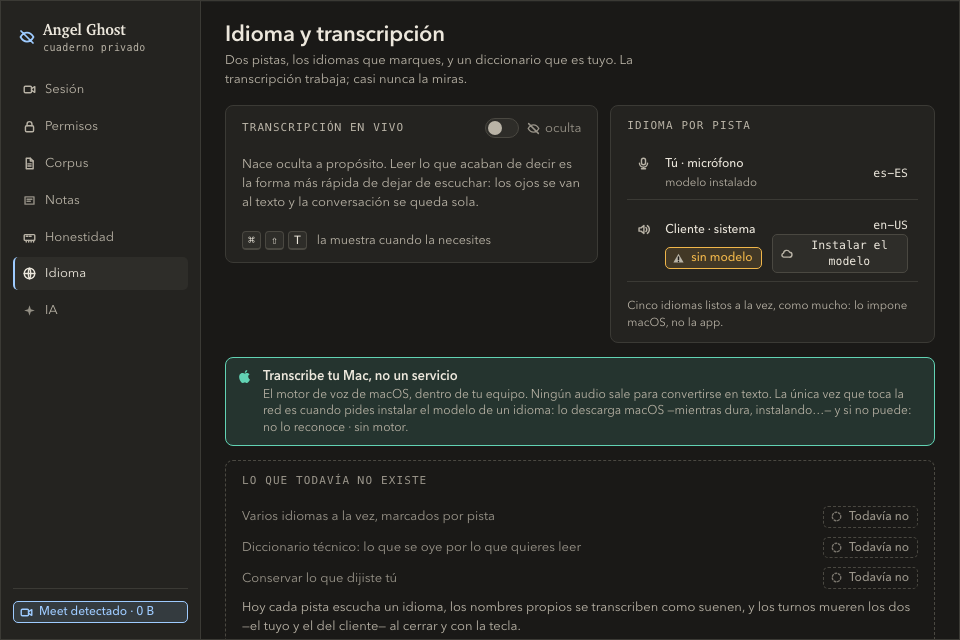
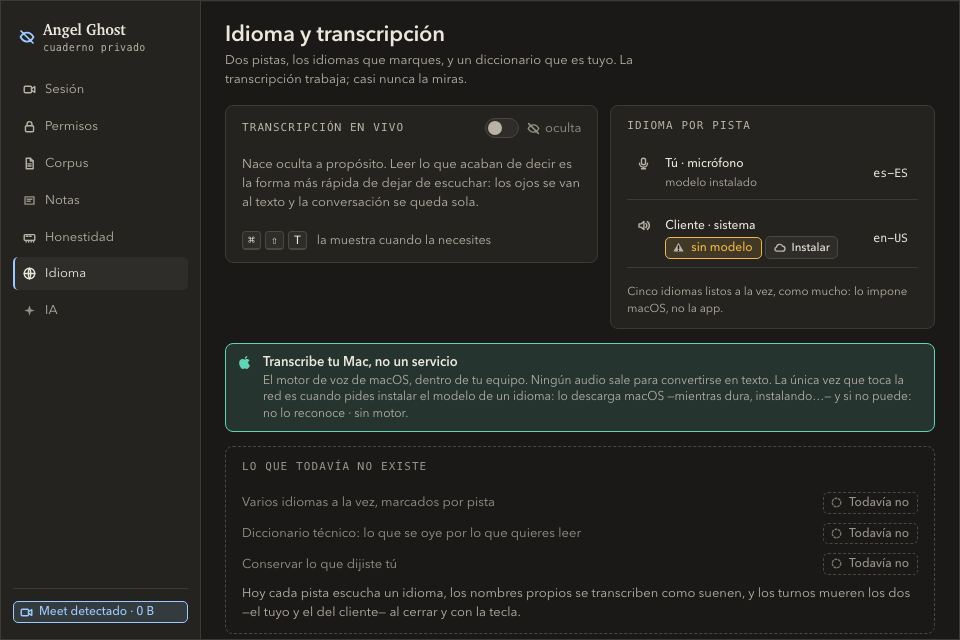
fix(s1): «Instalar», al lado del motivo que arregla
La captura leída como imagen enseñó lo que el número no decía: con el
botón en la columna de la derecha, la etiqueta «Instalar el modelo»
partía en dos líneas y el código del idioma quedaba flotando encima,
leyéndose como parte de la fila anterior.

Con la etiqueta de una palabra y al lado del chip «sin modelo», cabe en
una línea y el desborde de la pantalla baja de 29 px a 15 px — la última
línea del párrafo del pie. Cuatro pasadas del gate para una fila y un
botón, y la que decidió fue la que se miró.

Changed region(s): [[0.2188, 0.3438, 1.0, 0.75], [0.25, 0.7812, 0.9688, 1.0]]

diff --git a/docs/GUIA-DE-PRUEBA.html b/docs/GUIA-DE-PRUEBA.html
@@ -383,7 +383,7 @@
     <ul class="pasos">
       <li data-origen="nuevo"><input type="checkbox" id="f1"><label for="f1">Mira las dos pistas con su idioma y el estado real de su modelo. <strong>Si un modelo no está instalado, lo dice</strong> en vez de fallar en silencio cuando alguien hable.
         <span class="origen origen-nuevo">Nuevo · S1</span></label></li>
-      <li data-origen="mejorado" data-minimo><input type="checkbox" id="f2"><label for="f2">Con un idioma sin modelo, la fila lo dice en ámbar y ofrece <strong>«Instalar el modelo»</strong>. Púlsalo: el botón pasa a <strong>«instalando…»</strong> y no se puede volver a pulsar; cuando macOS termina, la fila dice <strong>«modelo instalado»</strong>. Es la única vez que la app toca la red, y en la dirección contraria: entra el modelo, no sale nada. El contador sigue en <strong>0 B</strong>.
+      <li data-origen="mejorado" data-minimo><input type="checkbox" id="f2"><label for="f2">Con un idioma sin modelo, la fila lo dice en ámbar y ofrece <strong>«Instalar»</strong>. Púlsalo: el botón pasa a <strong>«instalando…»</strong> y no se puede volver a pulsar; cuando macOS termina, la fila dice <strong>«modelo instalado»</strong>. Es la única vez que la app toca la red, y en la dirección contraria: entra el modelo, no sale nada. El contador sigue en <strong>0 B</strong>.
         <p class="chica suave" style="margin:6px 0 0"><strong>Este botón no existía.</strong> La auditoría encontró que el comando que instala el modelo no tenía un solo llamador: en un Mac sin el modelo del cliente —lo normal, si tu sistema está en español— la transcripción del cliente era inalcanzable desde dentro de la app, y la pantalla solo decía «sin modelo».</p>
         <span class="origen origen-mejorado">Mejorado en S1 · auditoría</span>
         <span class="minimo">⭐ mínimo</span></label></li>
@@ -392,7 +392,7 @@
       <li data-origen="nuevo" data-minimo><input type="checkbox" id="f4"><label for="f4">En una reunión en inglés, con el idioma del cliente en <code>en-US</code>: los turnos del cliente <strong>se transcriben en inglés</strong> y los tuyos en español, cada pista por su lado.
         <span class="origen origen-nuevo">Nuevo · S1</span>
         <span class="minimo">⭐ mínimo</span></label></li>
-      <li data-origen="nuevo" data-minimo><input type="checkbox" id="f5"><label for="f5"><strong>Y una que es una pregunta para ti, no una comprobación.</strong> Con un idioma sin modelo, esta pantalla mide 667 px y la ventana 640: <strong>se desplaza 29 px</strong>. Baja con la rueda o con el teclado y dime si te molesta. La alternativa era recortar la frase de «Transcribe tu Mac» que dice cuál es la única vez que la app toca la red, y recortar honestidad para que un gate quede en verde es justo lo que esta auditoría vino a arreglar. En cuanto el modelo está instalado, la pantalla vuelve a caber.
+      <li data-origen="nuevo" data-minimo><input type="checkbox" id="f5"><label for="f5"><strong>Y una que es una pregunta para ti, no una comprobación.</strong> Con un idioma sin modelo, esta pantalla mide 653 px y la ventana 640: <strong>se desplaza 15 px</strong> — la última línea del párrafo de abajo. Baja con la rueda o con el teclado y dime si te molesta. La alternativa era recortar la frase de «Transcribe tu Mac» que dice cuál es la única vez que la app toca la red, y recortar honestidad para que un gate quede en verde es justo lo que esta auditoría vino a arreglar. En cuanto el modelo está instalado, la pantalla vuelve a caber.
         <span class="origen origen-nuevo">Nuevo · S1 · auditoría</span>
         <span class="minimo">⭐ mínimo</span></label></li>
     </ul>
@@ -409,7 +409,7 @@
       <ul>
         <li><strong>S1 · v2 · 2026-09-22 (tras la auditoría):</strong> 39 pruebas. <strong>Seis
           nuevas</strong> —la banda sin reunión ni corpus, la frase del cliente que enseña al buscar,
-          el corte mientras hablas (novena parada del ⭐⭐), el log sin palabras y el desborde de la
+          el corte mientras hablas (novena parada del ⭐⭐), el log sin palabras y el desborde de 15 px de la
           pantalla de Idioma— y <strong>tres reescritas</strong>: la ficha en menos de cuatro
           segundos (que no funcionaba), el PDF roto (que en la app compilada cerraba el programa) y
           la instalación del modelo (que no tenía botón). Gate mínimo ⭐ de 31; corto ⭐⭐ de 9 paradas.

diff --git a/src/pantallas/Idioma.tsx b/src/pantallas/Idioma.tsx
@@ -84,21 +84,23 @@ export function Idioma({ transcribe }: { transcribe: QueSabeTranscribir }) {
       <div className="buffer" key={codigo}>
         <Ic id={icono} s />
         <span className="que">{quien}</span>
+        {/* **El botón va al lado del motivo que arregla**, y su etiqueta es una palabra.
+            Costó tres pasadas del gate de fidelidad y una captura leída como imagen: en fila
+            propia empujaba la pantalla 58 px fuera de la ventana de 640; en la columna de la
+            derecha, 29 px **y partía en dos líneas** —«Instalar el» / «modelo»— con el código del
+            idioma flotando encima. Eso último no lo dice ningún número: se vio mirando el PNG. */}
         <span className="donde">
           {listo || (
-            <span className="estado warn">
-              <Ic id="i-alert" s />
-              <span>{motivo(t, d)}</span>
-            </span>
+            <>
+              <span className="estado warn">
+                <Ic id="i-alert" s />
+                <span>{motivo(t, d)}</span>
+              </span>{" "}
+              {botonDeInstalar(codigo)}
+            </>
           )}
         </span>
-        {/* **El botón va en la columna de la derecha**, que en `.buffer` ocupa las dos filas: ahí
-            cabe sin hacer la fila más alta. En una fila propia empujaba la pantalla 58 px fuera de
-            la ventana de 640, y al lado del motivo, 20 px. Lo midió el gate de fidelidad, no el
-            ojo — y esta pantalla ya estaba justo al límite antes de tocarla. */}
-        <span className="cuanto">
-          {codigo} {botonDeInstalar(codigo)}
-        </span>
+        <span className="cuanto">{codigo}</span>
       </div>
     );
   };

diff --git a/docs/diseno/idioma.html b/docs/diseno/idioma.html
@@ -224,7 +224,7 @@
                inglés. Sin él, la pantalla decía «sin modelo» —en español, también en la interfaz
                inglesa— y no ofrecía nada que hacer: la transcripción del cliente quedaba
                inalcanzable desde dentro de la app. -->
-          <div class="buffer"><svg class="ic s"><use href="#i-sistema"/></svg><span class="que"><span lang="es">Cliente · sistema</span><span lang="en">Client · system</span></span><span class="donde"><span class="estado warn"><svg class="ic s"><use href="#i-alert"/></svg><span><span lang="es">sin modelo</span><span lang="en">no model</span></span></span></span><span class="cuanto">en-US <button class="btn mini" type="button"><svg class="ic s"><use href="#i-nube"/></svg><span lang="es">Instalar el modelo</span><span lang="en">Install the model</span></button></span></div>
+          <div class="buffer"><svg class="ic s"><use href="#i-sistema"/></svg><span class="que"><span lang="es">Cliente · sistema</span><span lang="en">Client · system</span></span><span class="donde"><span class="estado warn"><svg class="ic s"><use href="#i-alert"/></svg><span><span lang="es">sin modelo</span><span lang="en">no model</span></span></span> <button class="btn mini" type="button"><svg class="ic s"><use href="#i-nube"/></svg><span lang="es">Instalar</span><span lang="en">Install</span></button></span><span class="cuanto">en-US</span></div>
           <p style="font-size:11.5px;color:var(--ink-2);margin-top:6px"><span lang="es">Cinco idiomas listos a la vez, como mucho: lo impone macOS, no la app.</span><span lang="en">Five languages ready at a time, at most: macOS imposes it, not the app.</span></p>
         </div>
       </div>

diff --git a/src/i18n/es.ts b/src/i18n/es.ts
@@ -311,7 +311,7 @@ export const es = {
     noLoReconoce: "no lo reconoce",
     sinMotorDeVoz: "sin motor",
     /** El botón que faltaba (A7): sin él, un Mac sin el modelo no tenía cómo conseguirlo. */
-    instalarModelo: "Instalar el modelo",
+    instalarModelo: "Instalar",
     instalando: "instalando…",
     cincoIdiomas: "Cinco idiomas listos a la vez, como mucho: lo impone macOS, no la app.",
     transcribeTuMac: "Transcribe tu Mac, no un servicio",

diff --git a/src/i18n/en.ts b/src/i18n/en.ts
@@ -240,7 +240,7 @@ export const en: Diccionario = {
     sinModelo: "no model",
     noLoReconoce: "not recognised",
     sinMotorDeVoz: "no engine",
-    instalarModelo: "Install the model",
+    instalarModelo: "Install",
     instalando: "installing…",
     cincoIdiomas: "Five languages ready at a time, at most: macOS imposes it, not the app.",
     transcribeTuMac: "Your Mac transcribes, not a service",

diff --git a/sprints/SPRINT_001-implementation-log.md b/sprints/SPRINT_001-implementation-log.md
@@ -1891,11 +1891,8 @@ funcionar. Mientras macOS descarga dice «instalando…» y no se puede volver a
 **En rojo:** cinco pruebas nuevas en `idioma-sin-modelo.test.tsx`; sin el botón, *«Unable to find an
 accessible element with the role "button" and name /Instalar el modelo/»*.
 
-**Y el precio de dibujarlo, medido:** la pantalla de Idioma estaba **a 0 px del borde** de la ventana
-de 640, así que cada cosa nueva la desbordaba. Tres pasadas del gate de fidelidad para colocarla —
-botón en fila propia **+58 px**, al lado del motivo **+37 px**, en la columna que ya ocupa las dos
-filas del `buffer` **+29 px**— y una cuarta comprimiendo la frase de la franja. Lo midió el gate, no
-el ojo.
+**Y el precio de dibujarlo está medido abajo**, en «el desborde que queda»: cuatro pasadas del gate
+de fidelidad, y la última decidida leyendo la captura y no el número.
 
 ### Las 9 frases que habían caducado
 
@@ -1918,21 +1915,28 @@ pantalla decía, no lo que la app hacía. Un test escrito contra la interfaz no 
 
 #### El desborde que queda, medido y declarado
 
-La pantalla de Idioma **estaba a 0 px del borde** de la ventana de 640 antes de la auditoría. Con la
-fila del modelo que falta y su botón, el estado «sin modelo» mide **667 px: 29 px de desplazamiento**.
-Los otros tres bloques no se tocaron.
+La pantalla de Idioma **estaba a 0 px del borde** de la ventana de 640 antes de la auditoría, así que
+cada cosa nueva la desbordaba. Cuatro pasadas del gate para colocar una fila y un botón:
 
-| Bloque | Alto | Nota |
-|---|---|---|
-| título | 68 px | |
-| `grid-2` | 238 px | lo manda la tarjeta de la derecha; la fila del cliente pasa de 53 a 73 px por el botón |
-| `franja ok` | 89 px | tres líneas, las mismas que tenía |
-| `tarjeta pendiente` | 188 px | |
+| Dónde fue el botón | Desborde |
+|---|---|
+| en una fila propia debajo de las dos pistas | **+58 px** |
+| al lado del motivo, con la etiqueta «Instalar el modelo» | **+37 px** |
+| en la columna de la derecha, que ya ocupa las dos filas del `buffer` | **+29 px** |
+| **al lado del motivo, etiqueta «Instalar»** | **+15 px** ← así queda |
 
-**Por qué se deja así y no se recorta copy.** Las dos salidas eran quitar 29 px de texto —y el único
-candidato era la frase de la franja que dice *«la única vez que la app toca la red…»*, que es una de
-las afirmaciones que esta app existe para sostener— o aceptar el desplazamiento. Recortar honestidad
-para poner un gate en verde es exactamente el fallo que esta auditoría entera está pagando.
+**Y la última la decidió una captura, no un número.** Con el botón en la columna de la derecha el
+desborde bajaba a 29 px y ahí lo habría dejado: el gate solo dice cuántos píxeles sobran. Al **leer
+el PNG como imagen** —la disciplina de la pasada de capturas— se vio lo que ningún número dice: la
+etiqueta partía en dos líneas, «Instalar el» / «modelo», y el código del idioma quedaba flotando
+encima, leyéndose como parte de la fila anterior. Con la etiqueta de una palabra, al lado del motivo
+que arregla, cabe en una línea y sobran 15 px en vez de 29.
+
+**Por qué se dejan esos 15 px y no se recorta copy.** Lo que queda fuera es la última línea del
+párrafo de «Lo que todavía no existe». Quitarlos exigía cortar la frase de la franja que dice *«la
+única vez que la app toca la red…»*, que es una de las afirmaciones que esta app existe para
+sostener. Recortar honestidad para poner un gate en verde es exactamente el fallo que esta auditoría
+entera está pagando.
 
 Y el desborde **solo existe en el estado que ofrece la acción**: en cuanto el modelo está instalado la
 fila vuelve a 53 px y la pantalla cabe. El contenedor es desplazable y **alcanzable con el teclado**

diff --git a/sprints/SPRINT_001-summary.md b/sprints/SPRINT_001-summary.md
@@ -24,7 +24,7 @@ Los tres outcomes, uno a uno:
 | Outcome | Estado |
 |---|---|
 | **Principal** — banda acoplada y protegida, ficha del corpus propio en ≤4 s tras el fin de turno, nada en disco, red en 0 | **en el producto sí; la reunión real de verdad es del gate ⭐** del usuario. Lo verificado por máquina: la ficha llega por el evento (test dentro de Tauri con el payload que Rust emite), la latencia determinista es de 376 µs de mediana, la sesión completa no deja un archivo fuera del índice, y el contador no tiene con qué moverse |
-| **Secundario** — las pantallas fieles a la maqueta, dos temas, dos idiomas | **sí.** 60 encuadres comparados, ninguno pasa del umbral de 0,15 %. Un desborde de 29 px declarado en Idioma cuando falta un modelo |
+| **Secundario** — las pantallas fieles a la maqueta, dos temas, dos idiomas | **sí.** 60 encuadres comparados, ninguno pasa del umbral de 0,15 %. Un desborde de 15 px declarado en Idioma cuando falta un modelo |
 | **Terciario** — kit de evaluación v0 con P/R del disparo y nDCG@5 | **sí, tras la auditoría.** La fase 5 entregó el nDCG; el P/R del disparador y la mediana de latencia se añadieron pagando el hallazgo A9. WER y audio de mezcla quedan como deuda |
 
 ## Qué se construyó
@@ -160,7 +160,7 @@ atravesaba. El contrato se escribía dos veces a mano y nadie comparaba las copi
 | **WER informativo y audio de mezcla** del kit | el plan los pedía; la fase 5 no los hizo y la auditoría los declara | S2 |
 | **Disparo por silencio** | `por_silencio` existe y no tiene llamadores. **El manual ya lo declara** en vez de prometerlo | S2 |
 | **El VAD no es Silero** | regla 14: el modelo se gana el puesto con una medición, y esa medición es el WER que falta | S2, en el ADR del STT |
-| **Desborde de 29 px en Idioma** sin modelo | la alternativa era recortar una frase de honestidad | a la mirada del usuario |
+| **Desborde de 15 px en Idioma** sin modelo | la alternativa era recortar una frase de honestidad | a la mirada del usuario |
 | **`lru` *unsound*** (RUSTSEC-2026-0253) vía tantivy | sin arreglo compatible: tantivy fija `^0.16` y el arreglo está en 0.18. **Y quitar `panic = "abort"` (A3) ensancha su exposición**, porque ahora un pánico se desenreda en vez de abortar | S2, vigilando tantivy |
 | **17 campos del contrato sin consumidor** | el gate nuevo compara la FORMA, no si alguien lee. `Documento`, `corte::Informe` y `Aparicion.ms` siguen sin llegar a la pantalla | S2 |
 
